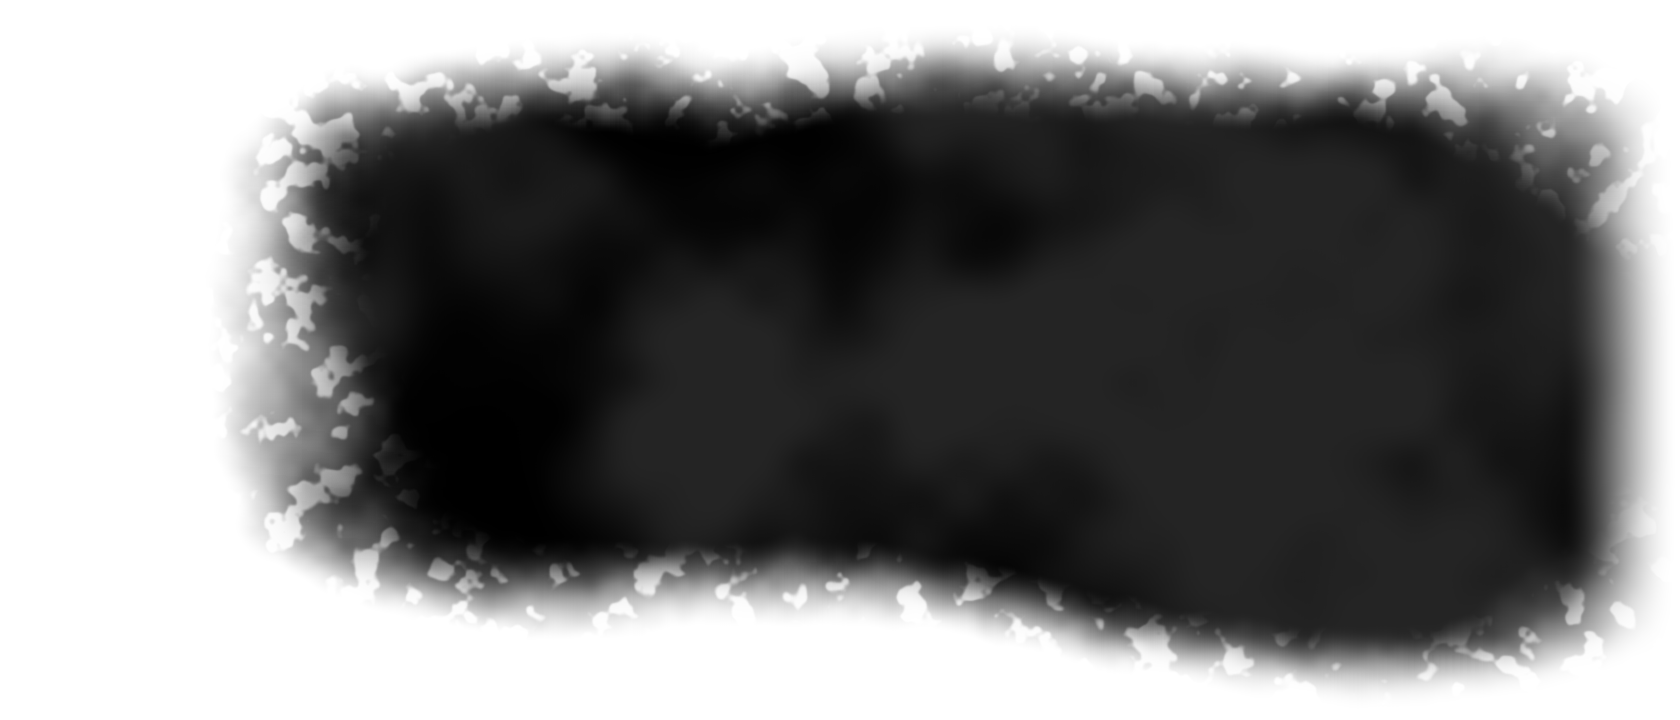
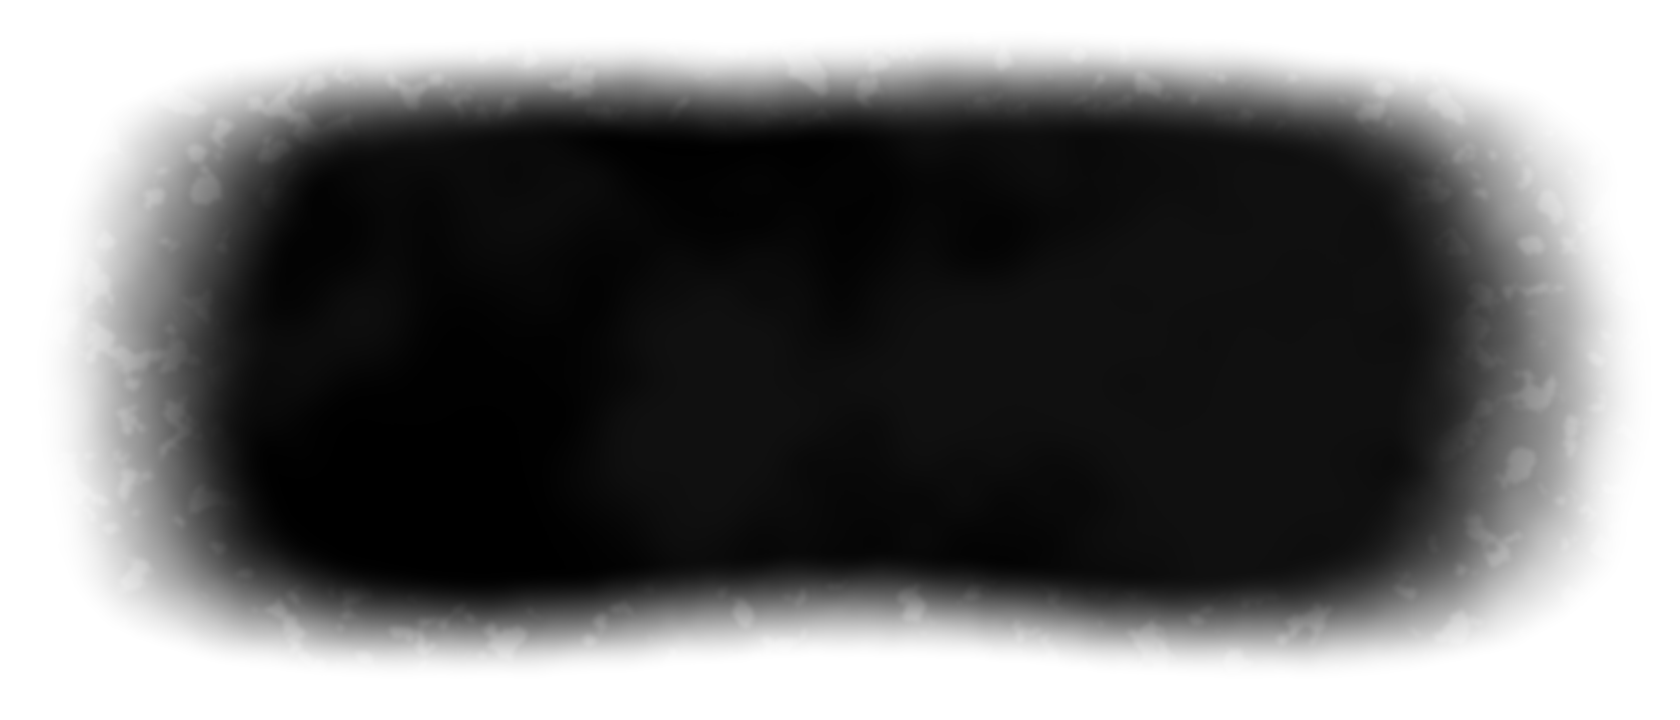
Náhled obrázků: maska fresky souměrná a jemnější (obraz uprostřed, méně výrazná textura okraje)
Claude-Session: https://claude.ai/code/session_01B7obWNd8t3eyi15XpW3dtB

diff --git a/scripts/fresco-mask.py b/scripts/fresco-mask.py
@@ -26,23 +26,24 @@ r = (np.abs(u) ** 5.5 + np.abs(v * 1.05) ** 5.5) ** (1 / 5.5)
 inside = 1 - r
 
 big = fractal(11, base=2, octaves=2)      # velké zálivy a výběžky
+big = (big + big[:, ::-1]) / 2            # souměrně: obraz zůstane uprostřed
 fine = fractal(23, base=8, octaves=5)     # drobná eroze okraje
-tilt = 0.04 * u - 0.03 * v                # vpravo nahoře o kousek víc zachované
-s = inside + 0.50 * (big - 0.5) + 0.20 * (fine - 0.5) + tilt
+tilt = 0 * u
+s = inside + 0.30 * (big - 0.5) + 0.07 * (fine - 0.5) + tilt
 
-alpha = smooth(0.04, 0.30, s)
+alpha = smooth(0.02, 0.34, s)
 
 flake = fractal(41, base=70, octaves=3)   # odprýsknutá omítka jen u okraje
 edge = 1 - smooth(0.10, 0.30, s)
-alpha *= 1 - 0.9 * smooth(0.56, 0.66, flake) * edge
+alpha *= 1 - 0.25 * smooth(0.60, 0.72, flake) * edge   # jen náznak odprýsknutí
 
 wash = fractal(57, base=5, octaves=4)     # vybledlá místa i uvnitř
-alpha *= 0.86 + 0.14 * smooth(0.3, 0.7, wash)
+alpha *= 0.94 + 0.06 * smooth(0.3, 0.7, wash)
 
 ux = (u + 1) / 2; vy = (v + 1) / 2        # ke krajům vždy do ztracena, žádný rovný řez
 alpha *= smooth(0.0, 0.07, np.minimum(ux, 1 - ux)) * smooth(0.0, 0.12, np.minimum(vy, 1 - vy))
 
-a = Image.fromarray((np.clip(alpha, 0, 1) * 255).astype(np.uint8), 'L').filter(ImageFilter.GaussianBlur(0.8))
+a = Image.fromarray((np.clip(alpha, 0, 1) * 255).astype(np.uint8), 'L').filter(ImageFilter.GaussianBlur(2.0))
 out = Image.new('LA', (W, H), 0)
 out.putalpha(a)  # maska se čte z průhlednosti
 out.save('/home/claude/here-be-worlds/public/navrh-obrazku/freska-maska.png', optimize=True)

diff --git a/docs/stav.md b/docs/stav.md
@@ -59,7 +59,7 @@ Naposledy aktualizováno: 2026-11-22.
 - Skryté stránky (noindex, z webu na ně nic nevede): `/putovani/navrh-obrazku/` (rejstřík se všemi zkušebními obrázky), `/putovani/navrh-obrazku/nocni/` (jen noční grafika) a `/putovani/navrh-obrazku/<slug>/` (stránka putování s obrázkem; panel vlevo dole přepíná obrázek, umístění pás / celá šířka / v textu a výšku pásu, šipky ← → listují).
 - Obrázky: `public/navrh-obrazku/` (16 zkušebních, styly mezzotinta, rytina, šin-hanga, symbolismus/uhel, kyanotypie, noční rytina), seznam a přiřazení ke stezkám `src/lib/image-preview.ts`, ovládání `src/components/preview/ImagePreviewPanel.astro`.
 - `TrailsIndex` má nepovinné `images` a `trailHref`, `EssayPage` nepovinné `hero`; živé stránky je nepoužívají.
-- Okraj „freska“ (výchozí v náhledu, přepínač Okraj v panelu): maska `public/navrh-obrazku/freska-maska.png` z `scripts/fresco-mask.py` (šum: zálivy, eroze, odprýsknutá omítka, vybledlá místa; průhlednost = maska), CSS `html.pv-fresco` v `essay.css`, ve světlém motivu `mix-blend-mode: multiply`. Jedna maska pro všechny obrázky, takže u některých může setřít důležitou část (u mrtvého boha tvář vlevo); ladí se v parametrech skriptu.
+- Okraj „freska“ (výchozí v náhledu, přepínač Okraj v panelu; 2026-11-23 v2: souměrná, jemný okraj, jen náznak odprýsknutí, protože kresby mají rozpitý okraj samy a původní maska posouvala obraz doprava): maska `public/navrh-obrazku/freska-maska.png` z `scripts/fresco-mask.py` (šum: zálivy, eroze, odprýsknutá omítka, vybledlá místa; průhlednost = maska), CSS `html.pv-fresco` v `essay.css`, ve světlém motivu `mix-blend-mode: multiply`. Jedna maska pro všechny obrázky, takže u některých může setřít důležitou část (u mrtvého boha tvář vlevo); ladí se v parametrech skriptu.
 - Třetí kolo (2026-11-23): volná kresba podle majitelových skic z In Dubia (`src/skici` v repu IN-DUBIO), ale v naší paletě: A = indigová tuš na krémovém papíře, B = bílá křída na tmavomodrém papíře, jedno zlaté světlo, motivy jako detail nebo polocelek s „druhým čtením“ (katedrála ze žeber, klouby v poli, kamenné víčko); obrázky 17–22. Majitel: „jdeme správným směrem“, styl ještě vymazlit do nezaměnitelné podoby, pak vymýšlet motivy. Obrácení barev varianty A pro tmavý motiv nefunguje (otočí světlo a zlatá zmodrá). Výchozí výška pásu v náhledu 16 : 9 (21 : 9 ořízne kresbu i zlaté světlo), ve světlém motivu `multiply` vždy.
 - **Styl nalezený (2026-11-23, páté kolo):** pravidla a prompt v `docs/obrazky-putovani.md`, vzor `public/navrh-obrazku/25-styl-vicko.jpg`. Další krok: vymyslet motivy pro 22 putování (z otázky a jádra každé eseje).
 - Čtvrté kolo (2026-11-23): **monotypie s kresbou** (tmavá monotypie tuší na krémovém papíře jako Degasovy monotypie, měkká mlha otisknutá a setřená, pár jistých tahů uhlem a tuší, indigo a noční modř, jedno zlaté světlo, okraj se rozpíjí do papíru, bez rámečku). Obrázky 23 (dům) a 24 (katedrála ze žeber, zatím nejlepší). Styl drží i u jiného motivu. K doladění: linka lámanější a různě silná (ne tabletové pero), mlha otisknutá se šmouhami místo spreje. Zvažovaná pomůcka pro jednotnou řadu: přikládat vybraný obrázek jako stylovou referenci.
